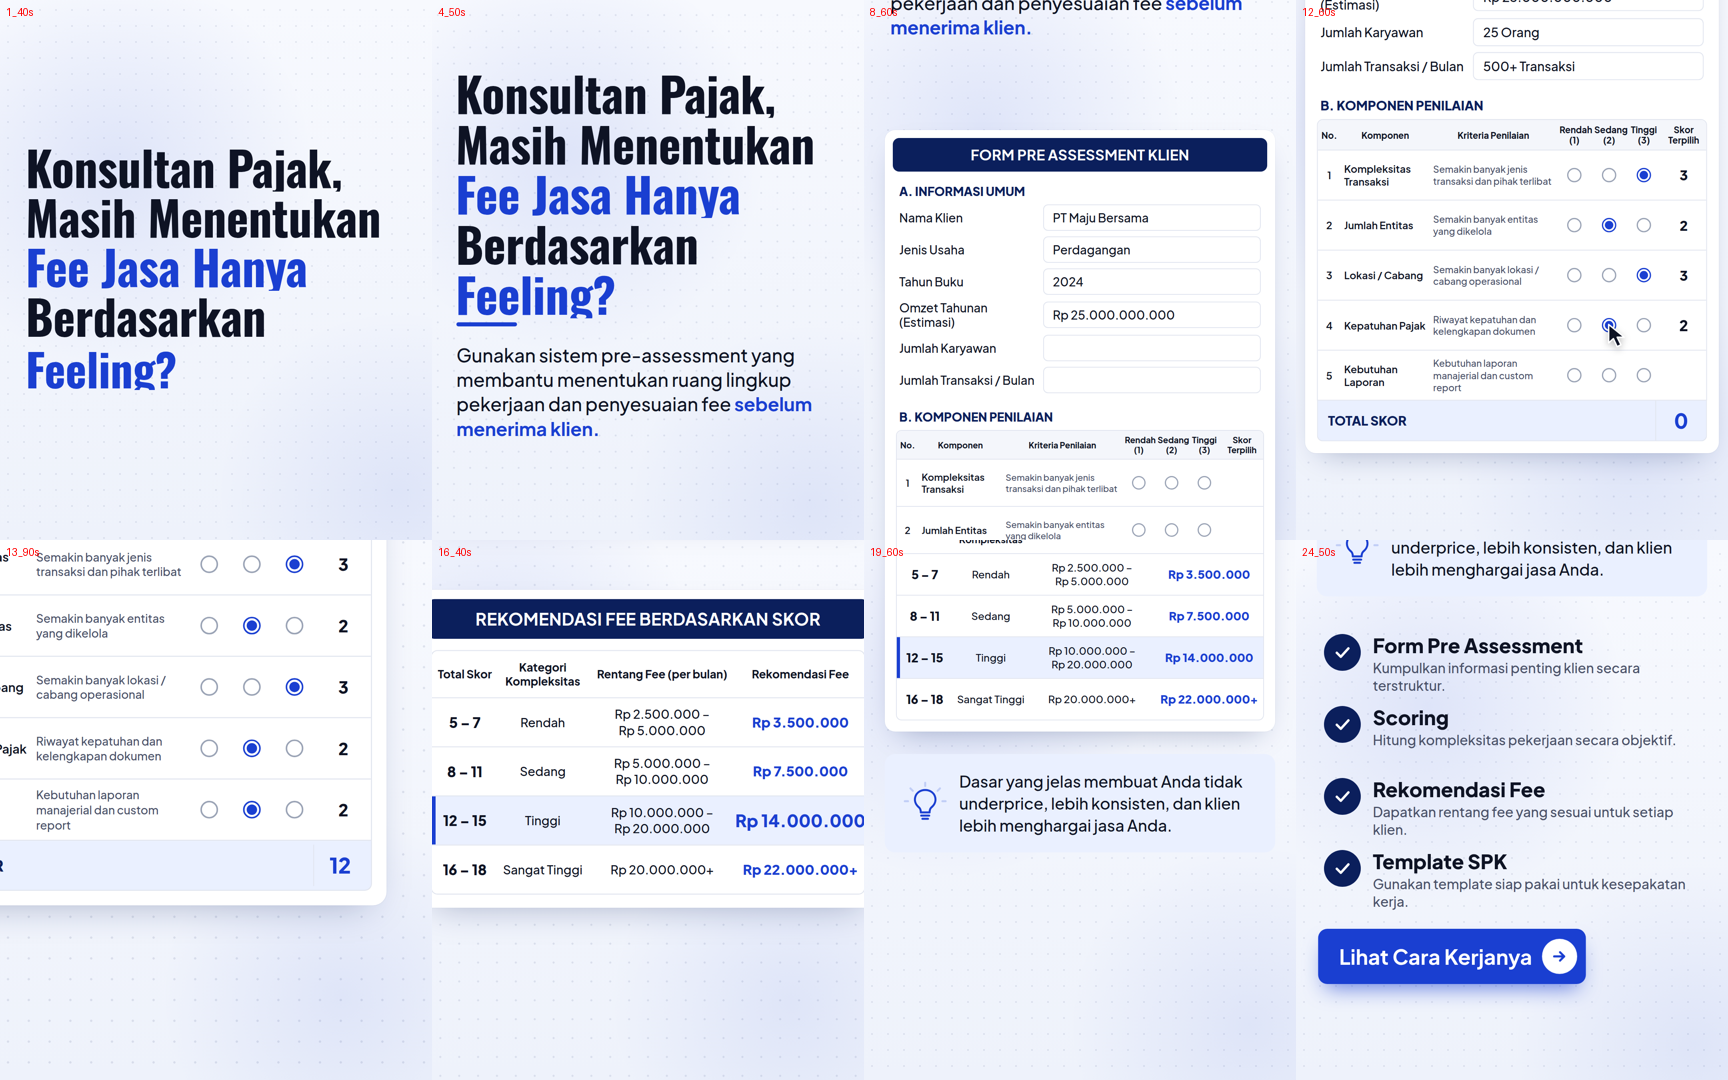
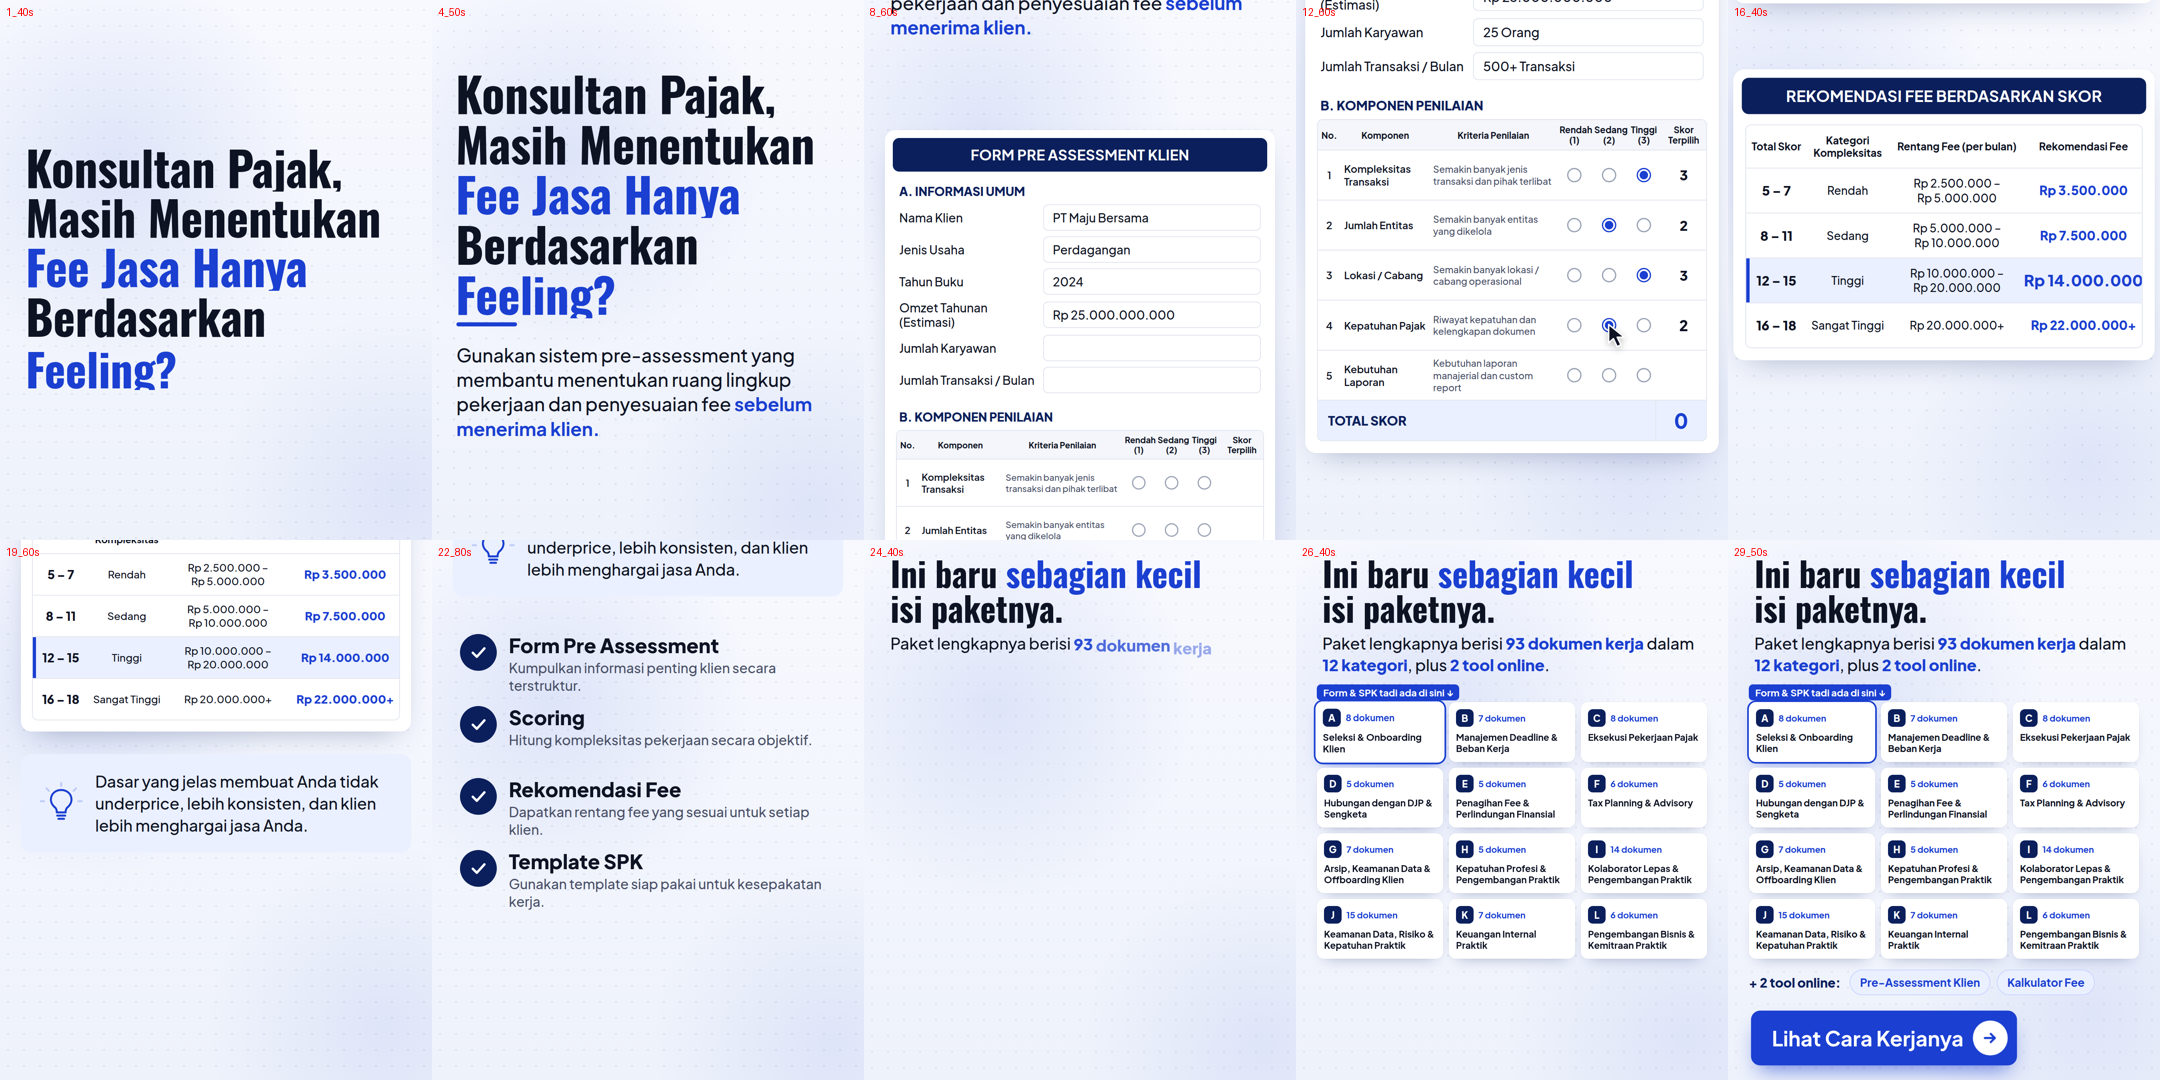
Promo-10: tambah bagian isi paket lengkap (12 kategori, 93 dokumen, 2 tool online)
Claude-Session: https://claude.ai/code/session_01BkuGfbskMB3XfNkd88enUZ

Changed region(s): [[0.0, 0.0, 1.0, 1.0]]

diff --git a/projects/promo-10/index.html b/projects/promo-10/index.html
@@ -34,8 +34,8 @@ html,body{width:100%;height:100%;background:#000;overflow:hidden;font-family:var
 #bg i{position:absolute;border-radius:50%}
 #g1{left:-300px;top:-200px;width:1100px;height:1100px;background:radial-gradient(circle,rgba(26,63,209,.10),transparent 64%)}
 #g2{left:420px;top:700px;width:1000px;height:1000px;background:radial-gradient(circle,rgba(26,63,209,.08),transparent 64%)}
-#world{position:absolute;left:0;top:0;width:1080px;height:5000px;transform-origin:0 0}
-#dots{position:absolute;left:-600px;top:-600px;width:2280px;height:6200px;background-image:radial-gradient(rgba(11,31,92,.10) 2px,transparent 2.4px);background-size:40px 40px}
+#world{position:absolute;left:0;top:0;width:1080px;height:6300px;transform-origin:0 0}
+#dots{position:absolute;left:-600px;top:-600px;width:2280px;height:7400px;background-image:radial-gradient(rgba(11,31,92,.10) 2px,transparent 2.4px);background-size:40px 40px}
 
 /* ---------- hook ---------- */
 .hl{position:absolute;left:64px;overflow:hidden;height:124px;white-space:nowrap}
@@ -106,6 +106,24 @@ html,body{width:100%;height:100%;background:#000;overflow:hidden;font-family:var
   padding:0 30px 0 50px;font:700 50px/1 var(--body);box-shadow:0 26px 50px -18px rgba(26,63,209,.65);opacity:0}
 #btn span.ar{width:84px;height:84px;border-radius:50%;background:#fff;display:flex;align-items:center;justify-content:center}
 #btn svg{width:46px;height:46px}
+/* bagian: ini baru sebagian kecil isi paketnya */
+#more h2{position:absolute;left:66px;top:4900px;font:700 84px/1.04 var(--head);color:var(--ink);white-space:nowrap}
+#more h2 b{font-weight:700;color:var(--blue)}
+#m2{top:4987px!important}
+#more h2 .w,#mSub .w{display:inline-block;opacity:0}
+#mSub{position:absolute;left:66px;width:950px;top:5092px;font:500 40px/1.35 var(--body);color:var(--ink)}
+#mSub b{font-weight:800;color:var(--blue)}
+#grid{position:absolute;left:52px;top:5266px;width:976px;display:grid;grid-template-columns:repeat(3,1fr);gap:14px}
+.tile{position:relative;height:150px;border-radius:18px;background:#fff;box-shadow:0 16px 34px -22px rgba(11,31,92,.4),0 0 0 1px rgba(11,31,92,.06);padding:18px 18px 16px;opacity:0}
+.tile .lt{display:flex;align-items:center;gap:12px}
+.tile .lt b{width:44px;height:44px;border-radius:12px;background:var(--navy);color:#fff;display:flex;align-items:center;justify-content:center;font:800 24px/1 var(--body)}
+.tile .lt span{font:700 22px/1 var(--body);color:var(--blue)}
+.tile h4{margin-top:12px;font:700 23px/1.22 var(--body);color:var(--ink)}
+.tile.a{box-shadow:0 0 0 4px var(--blue),0 16px 34px -16px rgba(26,63,209,.55)}
+#here{position:absolute;left:52px;top:5222px;padding:8px 16px;border-radius:10px;background:var(--blue);color:#fff;font:700 24px/1 var(--body);opacity:0;white-space:nowrap}
+#tools{position:absolute;left:52px;right:52px;top:5935px;display:flex;align-items:center;gap:16px;opacity:0}
+#tools b{font:800 32px/1 var(--body);color:var(--navy);margin-right:6px}
+#tools span{padding:16px 24px;border-radius:999px;background:var(--lb);border:2px solid #C9D6FF;font:700 28px/1 var(--body);color:var(--blue)}
 #cursor{position:absolute;z-index:30;left:900px;top:2300px;width:50px;height:60px;opacity:0;filter:drop-shadow(0 6px 8px rgba(0,0,0,.25))}
 #ui{position:fixed;left:50%;bottom:22px;transform:translateX(-50%);display:none;align-items:center;gap:14px;padding:11px 18px;border-radius:16px;background:rgba(14,16,22,.9);font-size:13px;color:#A0A6B4;z-index:90}
 #ui.on{display:flex}#scrub{width:340px}
@@ -170,7 +188,11 @@ html,body{width:100%;height:100%;background:#000;overflow:hidden;font-family:var
       <div class="t"><h3>Rekomendasi Fee</h3><p>Dapatkan rentang fee yang sesuai untuk setiap klien.</p></div></div>
     <div class="ck" id="k4" style="top:4600px"><div class="c"><svg viewBox="0 0 52 52"><path d="M12 27 L22 37 L41 16" fill="none" stroke="#fff" stroke-width="6" stroke-linecap="round" stroke-linejoin="round"/></svg></div>
       <div class="t"><h3>Template SPK</h3><p>Gunakan template siap pakai untuk kesepakatan kerja.</p></div></div>
-    <div id="btn" style="top:4800px">Lihat Cara Kerjanya<span class="ar"><svg viewBox="0 0 46 46"><path d="M10 23 H34 M24 13 L34 23 L24 33" fill="none" stroke="#1A3FD1" stroke-width="5" stroke-linecap="round" stroke-linejoin="round"/></svg></span></div>
+    <div id="more"><h2 id="m1">Ini baru <b>sebagian kecil</b></h2><h2 id="m2">isi paketnya.</h2></div>
+    <p id="mSub">Paket lengkapnya berisi <b>93 dokumen kerja</b> dalam <b>12 kategori</b>, plus <b>2 tool online</b>.</p>
+    <div id="grid"></div><div id="here">Form &amp; SPK tadi ada di sini ↓</div>
+    <div id="tools"><b>+ 2 tool online:</b><span>Pre-Assessment Klien</span><span>Kalkulator Fee</span></div>
+    <div id="btn" style="top:6040px">Lihat Cara Kerjanya<span class="ar"><svg viewBox="0 0 46 46"><path d="M10 23 H34 M24 13 L34 23 L24 33" fill="none" stroke="#1A3FD1" stroke-width="5" stroke-linecap="round" stroke-linejoin="round"/></svg></span></div>
 
     <svg id="cursor" viewBox="0 0 44 54"><path d="M4 3 L4 42 L14 33 L22 50 L30 46 L22 30 L37 30 Z" fill="#0E1324" stroke="#fff" stroke-width="3" stroke-linejoin="round"/></svg>
   </div>
@@ -179,7 +201,7 @@ html,body{width:100%;height:100%;background:#000;overflow:hidden;font-family:var
 
 <script>
 const $=(s,r=document)=>r.querySelector(s),$$=(s,r=document)=>[...r.querySelectorAll(s)];
-const W=1080,H=1350,DURATION=26;
+const W=1080,H=1350,DURATION=31;
 /* isi persis dari iklan gambar */
 const KOMP=[['Kompleksitas Transaksi','Semakin banyak jenis transaksi dan pihak terlibat',3],['Jumlah Entitas','Semakin banyak entitas yang dikelola',2],
   ['Lokasi / Cabang','Semakin banyak lokasi / cabang operasional',3],['Kepatuhan Pajak','Riwayat kepatuhan dan kelengkapan dokumen',2],
@@ -192,7 +214,22 @@ KOMP.forEach((k,i)=>{const r=document.createElement('div');r.className='tr rw';
 FEE.forEach(f=>{const r=document.createElement('div');r.className='tr rw';
   r.innerHTML=`<div class="hi"></div><div class="ts">${f[0]}</div><div>${f[1]}</div><div>${f[2].replace(' – ',' –<br>')}</div><div class="rk">${f[3]}</div>`;$('#tf').appendChild(r);});
 const wrapWords=el=>{const html=el.innerHTML;el.innerHTML=html.replace(/(<b>.*?<\/b>)|([^\s<]+)/g,(m,b,w)=>b?b.replace(/>(.*?)</,(x,t)=>'>'+t.split(' ').map(s=>`<span class="w">${s}</span>`).join(' ')+'<'):`<span class="w">${w}</span>`);};
-wrapWords($('#sub'));wrapWords($('#tipP'));
+wrapWords($('#sub'));wrapWords($('#tipP'));wrapWords($('#m1'));wrapWords($('#m2'));wrapWords($('#mSub'));
+const CATS=[
+['A','Seleksi & Onboarding Klien',['Seleksi & Penerimaan Klien Baru','Pengumpulan & Verifikasi Dokumen Onboarding','Penyusunan & Eksekusi Surat Perikatan Jasa (SPK)','Formulir Pre-Assessment Kesehatan Data Klien','Formulir Profil & KYC Klien','Template Surat Perikatan Jasa (SPK) Konsultasi Pajak','Checklist Dokumen Onboarding Klien','Tracker Pipeline Klien Baru & Master Database Klien']],
+['B','Manajemen Deadline & Beban Kerja',['Pengelolaan Tax Calendar Praktik','Protokol Eskalasi Klien Tidak Responsif','Manajemen Beban Kerja & Kapasitas Peak Season','Standar Komunikasi Proaktif ke Klien','Master Tax Calendar Praktik','Dashboard Kapasitas Kerja Praktik','Template Pesan Reminder & Permintaan Dokumen ke Klien']],
+['C','Eksekusi Pekerjaan Pajak',['Alur Kerja SPT Tahunan PPh Orang Pribadi','Alur Kerja SPT Tahunan PPh Badan','Pengelolaan SPT Masa Bulanan (PPh 21/23/25/PPN)','Penanganan Kendala Teknis Coretax','Prosedur Pembetulan SPT','Checklist Review Internal Sebelum Submit SPT','Workpaper Rekonsiliasi Fiskal PPh Badan','Formulir Persetujuan Klien atas Draft SPT']],
+['D','Hubungan dengan DJP & Sengketa',['Respons & Tindak Lanjut SP2DK','Pendampingan Pemeriksaan Pajak (Tax Audit)','Penanganan SKP & Surat Tagihan Pajak (STP)','Template Surat Tanggapan ke KPP','Surat Kuasa Khusus (SKK) Perpajakan']],
+['E','Penagihan Fee & Perlindungan Finansial',['Sistem Penagihan Fee Jasa Konsultasi','Pengelolaan Bukti Potong PPh 23 dari Klien','Template Invoice Jasa Konsultasi Pajak','Tracker Piutang & Bukti Potong PPh 23','Berita Acara Serah Terima Hasil Pekerjaan']],
+['F','Tax Planning & Advisory',['Alur Kerja Tax Review & Health Check Klien','Penyusunan Laporan Tax Planning','Prosedur Pemberian Opini Pajak (Tax Opinion)','Template Laporan Tax Health Check Klien','Template Tax Opinion Letter','Kalkulator Fee & Estimasi Skenario Tax Planning']],
+['G','Arsip, Keamanan Data & Offboarding Klien',['Sistem Pengarsipan Dokumen Pajak Klien','Protokol Keamanan Data & Kerahasiaan Klien','Offboarding Klien','Penanganan Klien Bermasalah & Pemutusan Kontrak','Berita Acara Serah Terima Dokumen — Offboarding','Checklist Audit Keamanan Data Praktik (Kuartalan)','Kepatuhan UU Pelindungan Data Pribadi (UU PDP) atas Data Klien']],
+['H','Kepatuhan Profesi & Pengembangan Praktik',['Pengelolaan Izin Praktik Konsultan Pajak','Pemenuhan Kewajiban CPD','Monitoring & Sosialisasi Perubahan Regulasi Perpajakan','Tracker Kewajiban Profesi per Konsultan','Template Catatan Konsultasi & Evaluasi Kolaborator Lepas']],
+['I','Kolaborator Lepas & Pengembangan Praktik',['Seleksi & Onboarding Kolaborator Lepas Pajak','Onboarding Singkat Kolaborator Lepas','Pengaturan Jadwal & Ketersediaan Kolaborator Lepas','Penanganan Masalah Kualitas & Pengakhiran Kerja Sama Kolaborator','Evaluasi Kinerja Diri & Kolaborator Lepas','Pengembangan Kompetensi Diri & Kolaborator Lepas','Pengakhiran Kerja Sama dengan Kolaborator Lepas','Panduan Peran: Konsultan Pajak sebagai Pemilik Praktik','Panduan Peran: Kolaborator Lepas Pelaksana Teknis','Kesepakatan Kerja & Standar Perilaku Kolaborator Lepas','Formulir Self-Assessment Praktik & Kolaborator Lepas','Formulir Catatan Masalah Kerja Sama Kolaborator','Template Perjanjian Kerja Sama dengan Kolaborator Lepas','Matriks Evaluasi Kolaborator Lepas per Proyek']],
+['J','Keamanan Data, Risiko & Kepatuhan Praktik',['Keamanan Siber, Hak Akses & Perlindungan Data Klien (UU PDP)','Backup & Pemulihan Data Digital','Keamanan Fisik & Kesiapsiagaan Darurat Ruang Kerja','Media Handling saat Krisis Reputasi Praktik','Audit Internal Berkala','Penilaian & Mitigasi Risiko Operasional','Pelaporan & Penanganan Insiden Internal','Investigasi Insiden & Root Cause Analysis (RCA)','Tindak Lanjut CAPA','Retensi, Pengarsipan & Pemusnahan Dokumen Praktik','Kode Etik Praktik & Standar Integritas Profesional','Form NDA / Pakta Integritas Kerahasiaan Kolaborator Lepas','Form Laporan Kronologis Insiden Internal','Checklist Masa Berlaku Perizinan & Legalitas Praktik','Checklist Kepatuhan Pajak Praktik Sendiri (PPh 21, 23, PPN)']],
+['K','Keuangan Internal Praktik',['Pengelolaan & Pertanggungjawaban Kas Kecil Praktik','Pencatatan Pendapatan & Pengeluaran Harian Praktik','Pembayaran ke Vendor & Kolaborator','Dashboard Keuangan Harian Praktik','Kalkulator Honor Kolaborator Lepas & Bagi Hasil Proyek','Template Budgeting & Perencanaan Anggaran Tahunan Praktik','Template Forecast Pendapatan 12 Bulan Praktik']],
+['L','Pengembangan Bisnis & Kemitraan Praktik',['Program Kemitraan & Rujukan Profesional','Konversi Inquiry Klien menjadi Kontrak Jasa','Kerja Sama B2B (Korporat, Notaris, Firma Hukum)','Penanganan Ulasan Negatif & Reputasi Digital','Strategi Retensi Klien & Mencegah Pindah ke Konsultan Lain','Template Analisis SWOT & Action Plan Praktik']]];
+CATS.forEach((c,i)=>{const d=document.createElement('div');d.className='tile'+(i?'':' a');
+  d.innerHTML=`<div class="lt"><b>${c[0]}</b><span>${c[2].length} dokumen</span></div><h4>${c[1]}</h4>`;$('#grid').appendChild(d);});
 
 const FV=$$('.fr .v');const TY=FV.map(()=>({n:0}));
 const N={tot:0};
@@ -221,7 +258,7 @@ tl.set('#form',{opacity:0,y:60},0);tl.set('#fee',{opacity:0,y:60},0);tl.set('#ti
 tl.set($$('#tk .rd b'),{scale:0},0);tl.set($$('#tk .rd'),{className:'rd'},0);tl.set($$('#tk .sk'),{opacity:0,scale:.4},0);
 tl.set($$('#tf .rw'),{opacity:0,y:20},0);tl.set($$('#tf .hi'),{opacity:0},0);tl.set('#tf .rw:nth-child(4)',{scale:1},0);
 tl.set('#chip',{opacity:0,scale:1},0);tl.set('#rays',{opacity:.2},0);
-tl.set($$('.ck .c'),{scale:0},0);tl.set($$('.ck .t'),{opacity:0,x:-30},0);tl.set('#btn',{opacity:0,y:40,scale:1},0);
+tl.set($$('.ck .c'),{scale:0},0);tl.set([...words('#more h2'),...words('#mSub')],{opacity:0,y:20},0);tl.set($$('.tile'),{opacity:0,y:30,scale:1},0);tl.set(['#here','#tools'],{opacity:0,y:20},0);tl.set($$('.ck .t'),{opacity:0,x:-30},0);tl.set('#btn',{opacity:0,y:40,scale:1},0);
 tl.set('#cursor',{opacity:0,scale:1},0);
 
 /* ===== 0–3 HOOK: headline menghantam masuk per baris ===== */
@@ -271,13 +308,22 @@ shot(17.4,.9,{s:1,fx:540,fy:3860,ay:675});
 tl.to('#rays',{opacity:1,duration:.3,yoyo:true,repeat:3},17.9);
 tl.to(words('#tipP'),{opacity:1,y:0,duration:.3,ease:'power2.out',stagger:.08},18.0);
 
-/* ===== 20,4–26 CHECKLIST + TOMBOL ===== */
+/* ===== 20,4–23 CHECKLIST ===== */
 shot(20.3,1.0,{s:1,fx:540,fy:4500,ay:675});
 ['#k1','#k2','#k3','#k4'].forEach((id,i)=>{const at=20.9+i*.45;
   tl.to(id+' .c',{scale:1,duration:.35,ease:'back.out(2.6)'},at);tl.to(id+' .t',{opacity:1,x:0,duration:.4,ease:'power3.out'},at+.08);});
-tl.to('#btn',{opacity:1,y:0,duration:.5,ease:'back.out(1.8)'},22.9);
-tl.to('#btn',{scale:1.05,duration:.32,ease:'sine.inOut',yoyo:true,repeat:5},23.6);
-tl.to('#btn .ar',{x:10,duration:.32,ease:'sine.inOut',yoyo:true,repeat:5},23.6);
+/* ===== 23–28 INI BARU SEBAGIAN KECIL: 12 kategori, 93 dokumen, 2 tool online ===== */
+shot(23.0,1.1,{s:1,fx:540,fy:5536,ay:675});
+tl.to(words('#more h2'),{opacity:1,y:0,duration:.35,ease:'power2.out',stagger:.1},23.6);
+tl.to(words('#mSub'),{opacity:1,y:0,duration:.3,ease:'power2.out',stagger:.06},24.05);
+tl.to($$('.tile'),{opacity:1,y:0,duration:.35,ease:'power3.out',stagger:.07},24.9);
+tl.to('#here',{opacity:1,y:0,duration:.35,ease:'back.out(2)'},26.0);
+tl.fromTo('.tile.a',{scale:1},{scale:1.06,duration:.25,yoyo:true,repeat:1,ease:'sine.inOut',immediateRender:false},26.0);
+tl.to('#tools',{opacity:1,y:0,duration:.4,ease:'power3.out'},26.6);
+/* ===== 27,4–31 TOMBOL ===== */
+tl.to('#btn',{opacity:1,y:0,duration:.5,ease:'back.out(1.8)'},27.4);
+tl.to('#btn',{scale:1.05,duration:.32,ease:'sine.inOut',yoyo:true,repeat:5},28.0);
+tl.to('#btn .ar',{x:10,duration:.32,ease:'sine.inOut',yoyo:true,repeat:5},28.0);
 tl.to({},{duration:.01},DURATION-.01);
 }
 
